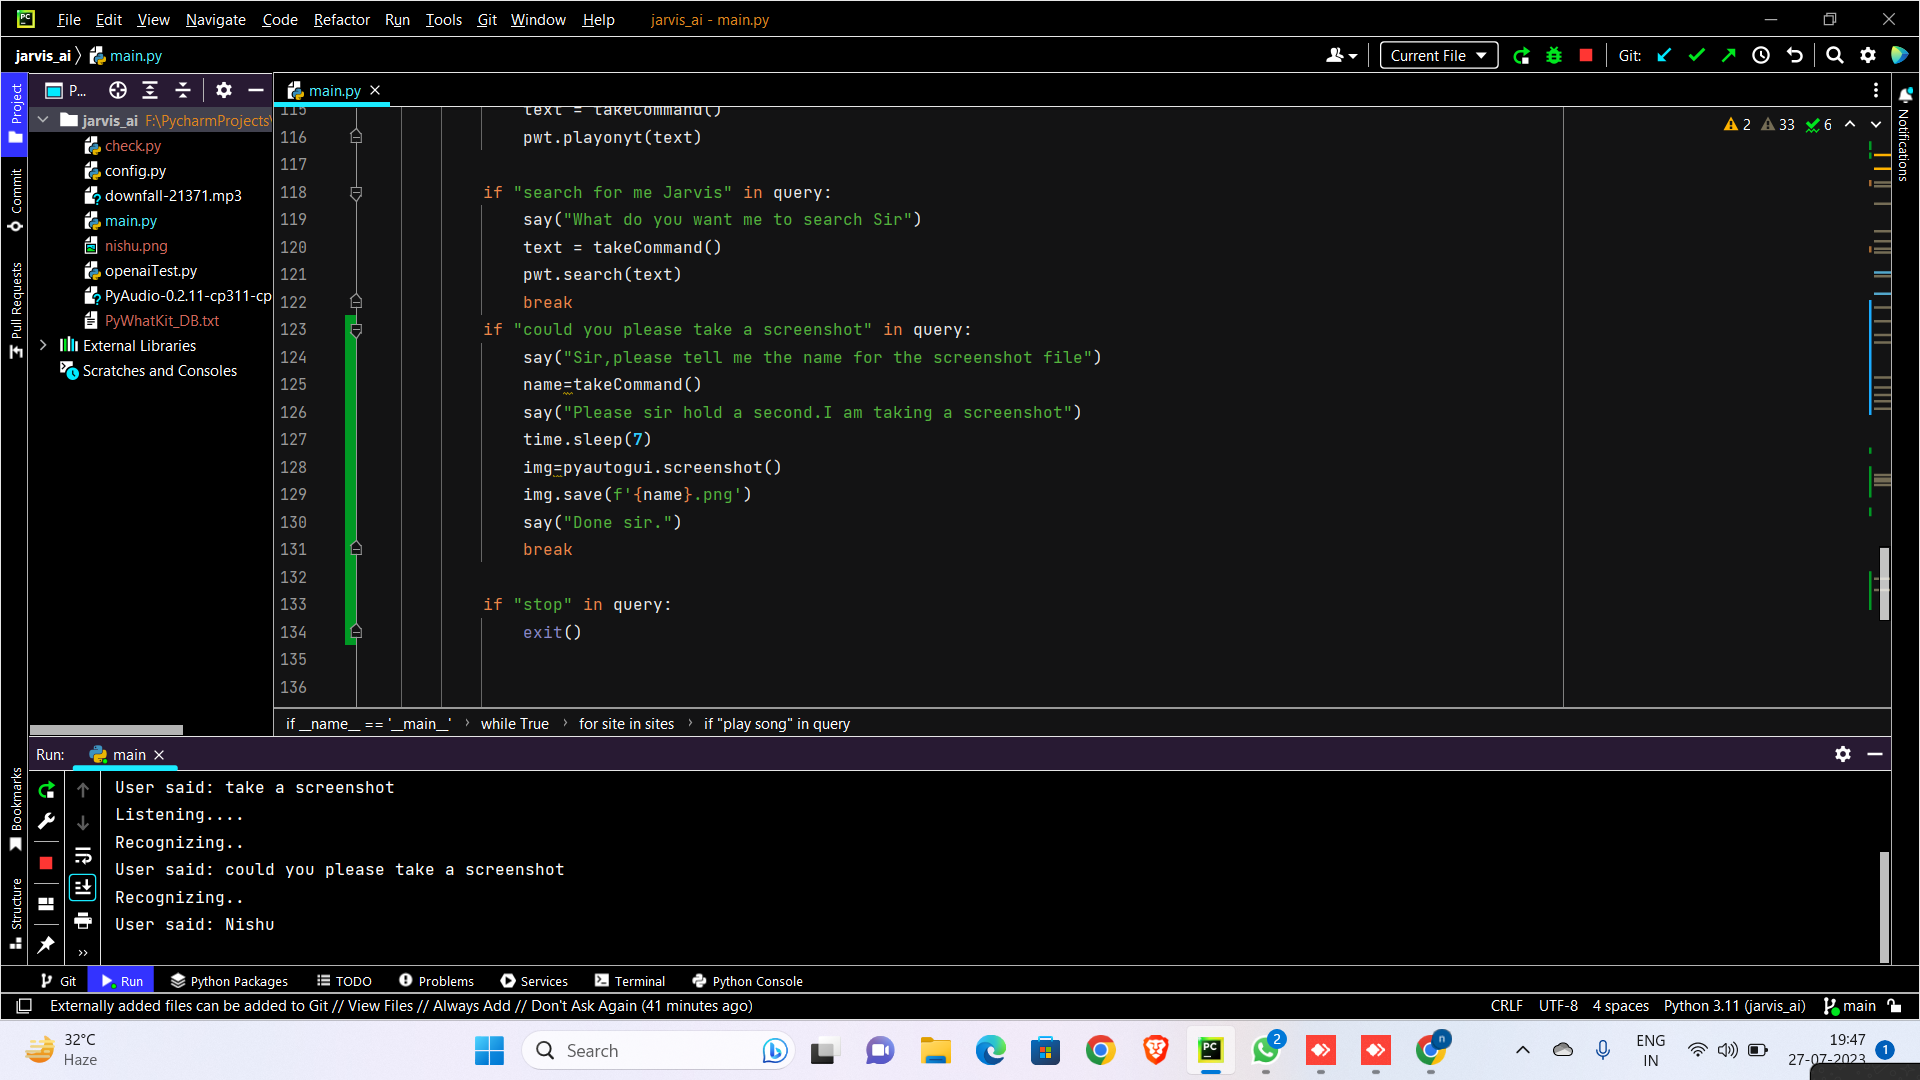
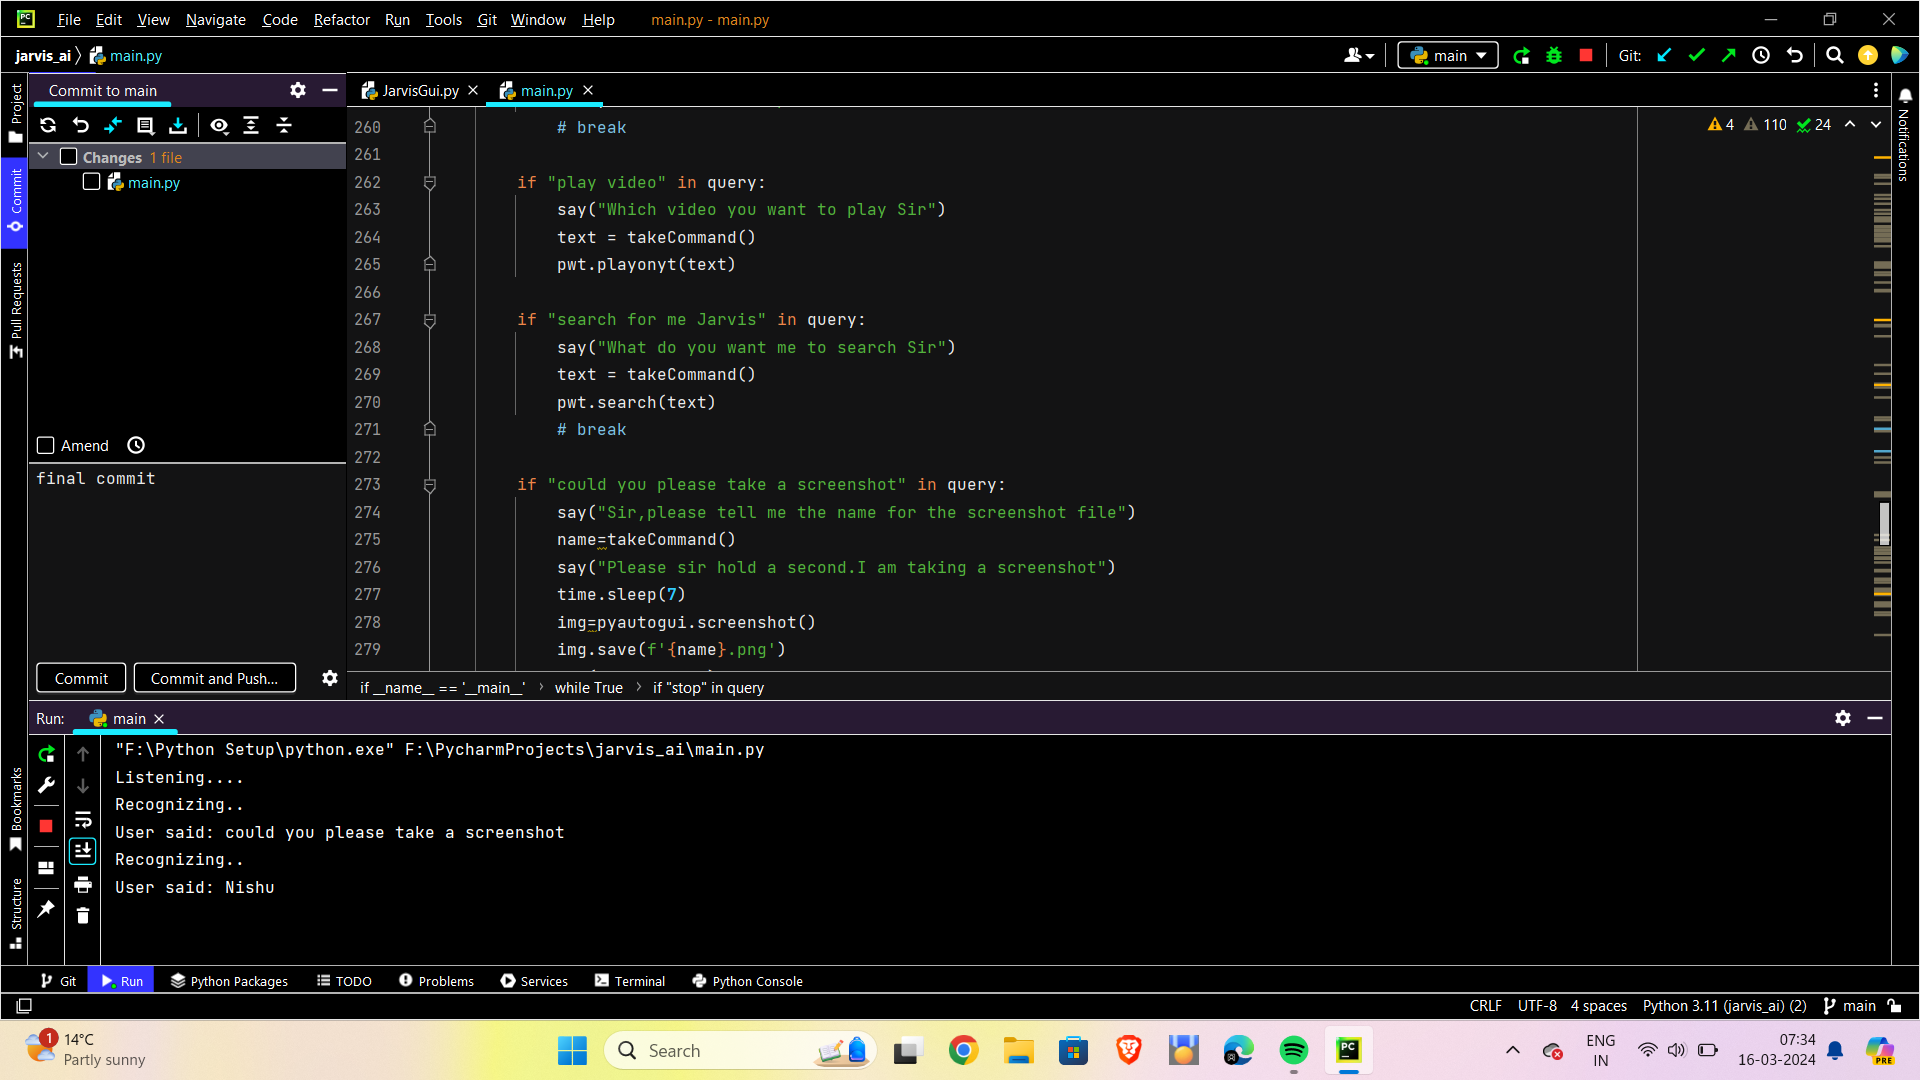
final commit

diff --git a/main.py b/main.py
@@ -1,26 +1,29 @@
-import os
-import requests
-from bs4 import BeautifulSoup
-from win10toast import ToastNotifier
-import pywhatkit
+import os #to intreact with operating system
+import requests #  to send HTTP requests, handle responses, and perform other related tasks in their Python programs.
+from bs4 import BeautifulSoup #easily to scrap information from web pages ,
+from win10toast import ToastNotifier #to show pop up Desktop notifications (Alert Messages)
+import pywhatkit # It offers functionalities such as playing YouTube videos, searching for information on Wikipedia,
+# converting text to handwriting, and sending WhatsApp messages programmatically.
 from googletrans import Translator
 import time
 from time import sleep
 import webbrowser
-import pyautogui
+import pyautogui # used for automating gui interactions
 import speech_recognition as sr
-import win32com.client
-import openai
+import win32com.client #access to many Windows-specific features and functionalities.
+import openai #provides access to natural language processing (NLP) models such as
+# GPT (Generative Pre-trained Transformer) through its API and Python library.
 import datetime
 from playsound import playsound
-import pywhatkit as pwt
-import gtts
+import pywhatkit as pwt # performing various functions like sending whtspp mesg ,
+# performing google search , converting text to handwriting and more
+import gtts   #to convert text to speech and save it aas an audio file or play it directly
 from gtts import gTTS
-from tkinter import *
+from tkinter import * # provide fast and easy way to create gui application
 import tkinter as tk
 import googletrans
-import pyttsx3
-import pypdf
+import pyttsx3 # used for text-to-speech conversion
+import pypdf # to read ,write and to manipulate pdf file in python code
 
 def say(text):
     speaker=win32com.client.Dispatch("SAPI.SpVoice")
@@ -31,7 +34,7 @@ def takeCommand():
     r = sr.Recognizer()
     with sr.Microphone() as source:
         r.energy_threshold = 900
-        r.pause_threshold = 0.8
+        r.pause_threshold = 0.9
         audio = r.listen(source)
         try:
             print("Recognizing..")
@@ -40,9 +43,7 @@ def takeCommand():
             return query
         except Exception as e:
             return "Some Error Occurred, Please Speak Again Sir.."
-def TaskExe():
-    say("Hello ,I am kit kat, your virtual A I assistant!")
-    say("How can I help you ?")
+
 
 def Reader():
     say("Tell me the name of the Book!")
@@ -175,7 +176,8 @@ def ChooseLang():
 
 def whatsapp():
     say("Tell me the number sir")
-    num = takeCommand()
+    num = int(input("Enter number:"))
+    sleep(50)
     pnum = f"+91{num}"
     say("What message you want me to deliver sir")
     typemsg = takeCommand()
@@ -191,7 +193,7 @@ def whatsapp():
 if __name__ == '__main__':
 
     # print("pycharm")
-    say("Hi, I am kit kat, your A I assistant , how can I assist you sir !")
+    say("Hi, I am jarvis, your A I assistant , how can I assist you sir !")
     while True:
         print("Listening....")
         query = takeCommand()
@@ -210,33 +212,34 @@ if __name__ == '__main__':
             say("I am fine sir!!")
             listen1 = takeCommand()
             say("Thank you sir ! its my pleasure you ask about me!")
-            break
+            # break
             # todo: Add a feature to play a specific song
 
         if "play song" in query:
             say("sir what song you want")
             song= takeCommand()
             webbrowser.open(f"https://open.spotify.com/search/{song}")
-            sleep(7)
+            sleep(13)
             pyautogui.click()
             say('playing'+ song)
-            break
+            # break
+
         if "send WhatsApp message for me" in query:
             whatsapp()
-            break
+            # break
         if "the time" in query:
             strfTime = datetime.datetime.now().strftime("%H:%M:%S")
             say(f"Sir the time is{strfTime}")
-            break
+            # break
         if "open Excel".lower() in query.lower():
             os.system(f"start excel")
-            break
+            # break
         if "open Word".lower() in query.lower():
             os.system(f"start winword")
 
         if "open PowerPoint".lower() in query.lower():
             os.system(f"start powerpnt")
-            break
+            # break
 
         if "open Browser".lower() in query.lower():
             say("Sure Sir, first tell me the website")
@@ -246,17 +249,16 @@ if __name__ == '__main__':
             web=initial1+initial2+initial3
             # web=input("Enter website sir: ")
             os.system(f"start chrome {web}")
-            break
+            # break
 
         if "open camera" in query:
             os.system(f"start microsoft.windows.camera:")
             sleep(7)
             pyautogui.click()
-            break
 
         if "open Notepad" in query:
             os.system(f"start notepad")
-            break
+            # break
 
         if "play video" in query:
             say("Which video you want to play Sir")
@@ -267,7 +269,7 @@ if __name__ == '__main__':
             say("What do you want me to search Sir")
             text = takeCommand()
             pwt.search(text)
-            break
+            # break
 
         if "could you please take a screenshot" in query:
             say("Sir,please tell me the name for the screenshot file")
@@ -278,7 +280,7 @@ if __name__ == '__main__':
             img.save(f'{name}.png')
             say("Done sir.")
             break
-        if "alarm" in query:
+        if "set alarm" in query:
             say("Enter the time:")
             time=input("Enter the time:")
             while True:
@@ -344,6 +346,7 @@ if __name__ == '__main__':
 
 
         if "stop" in query:
+            say("ok sir thank you")
             exit()
 
 
